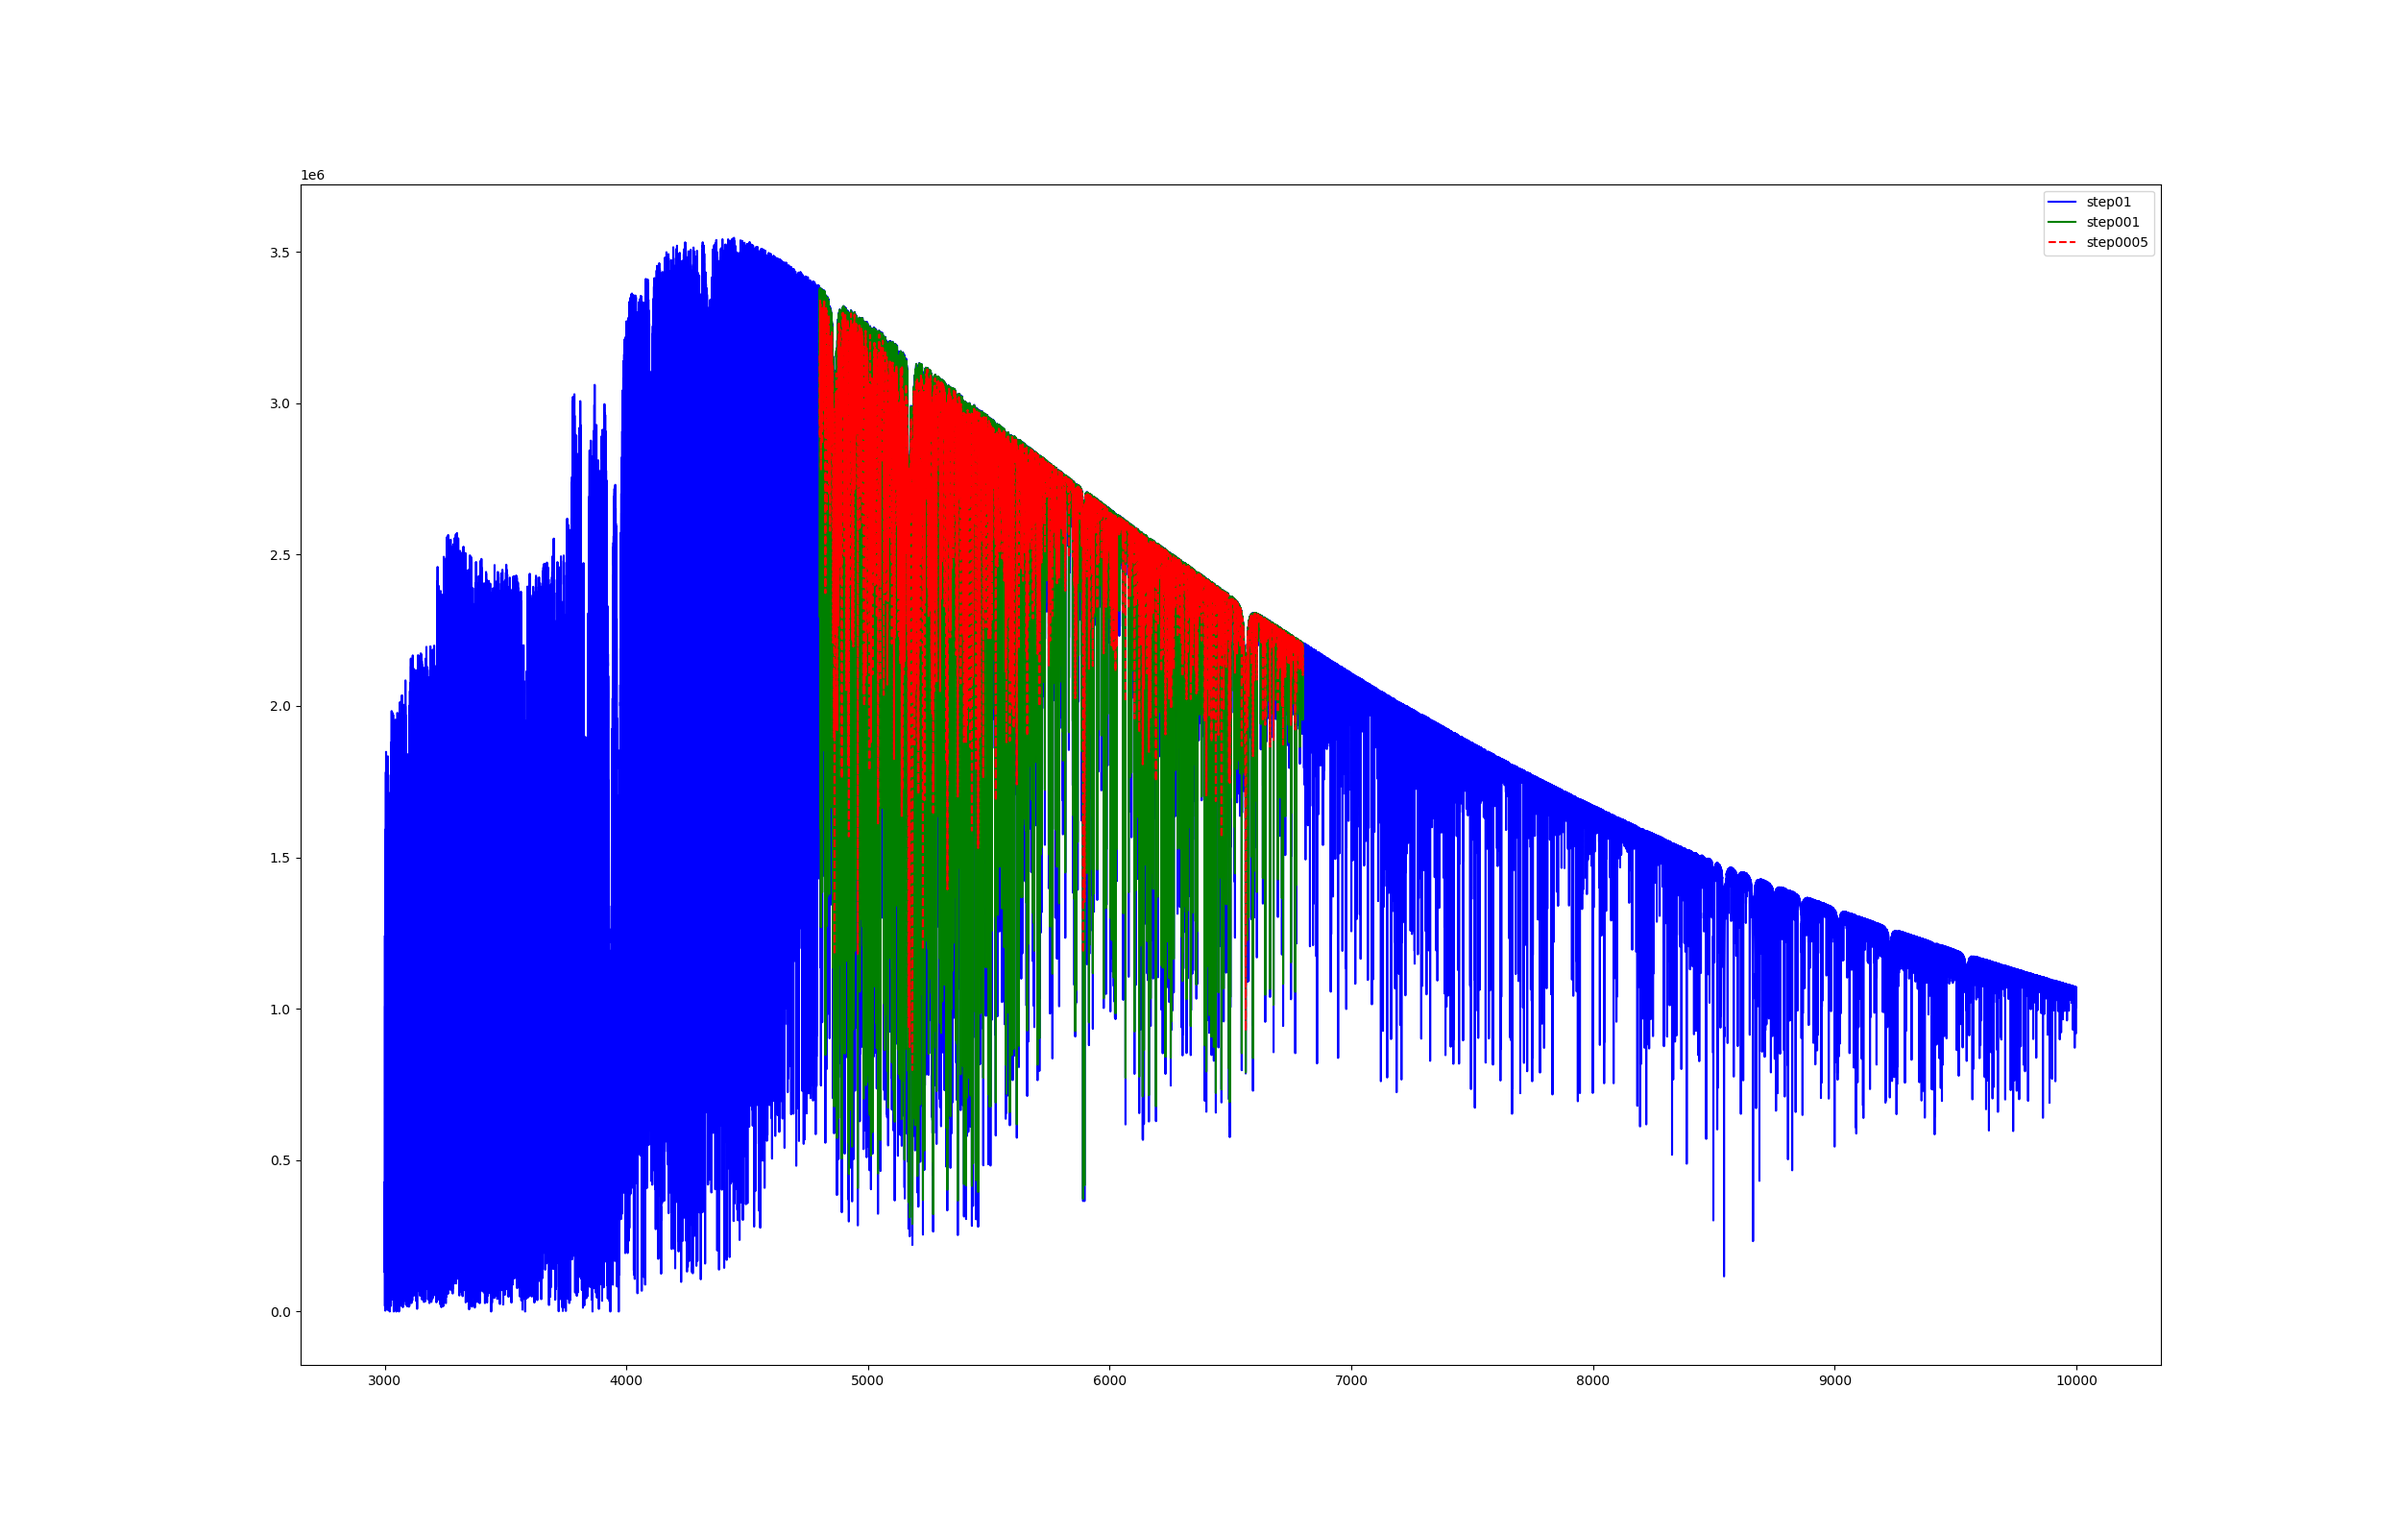
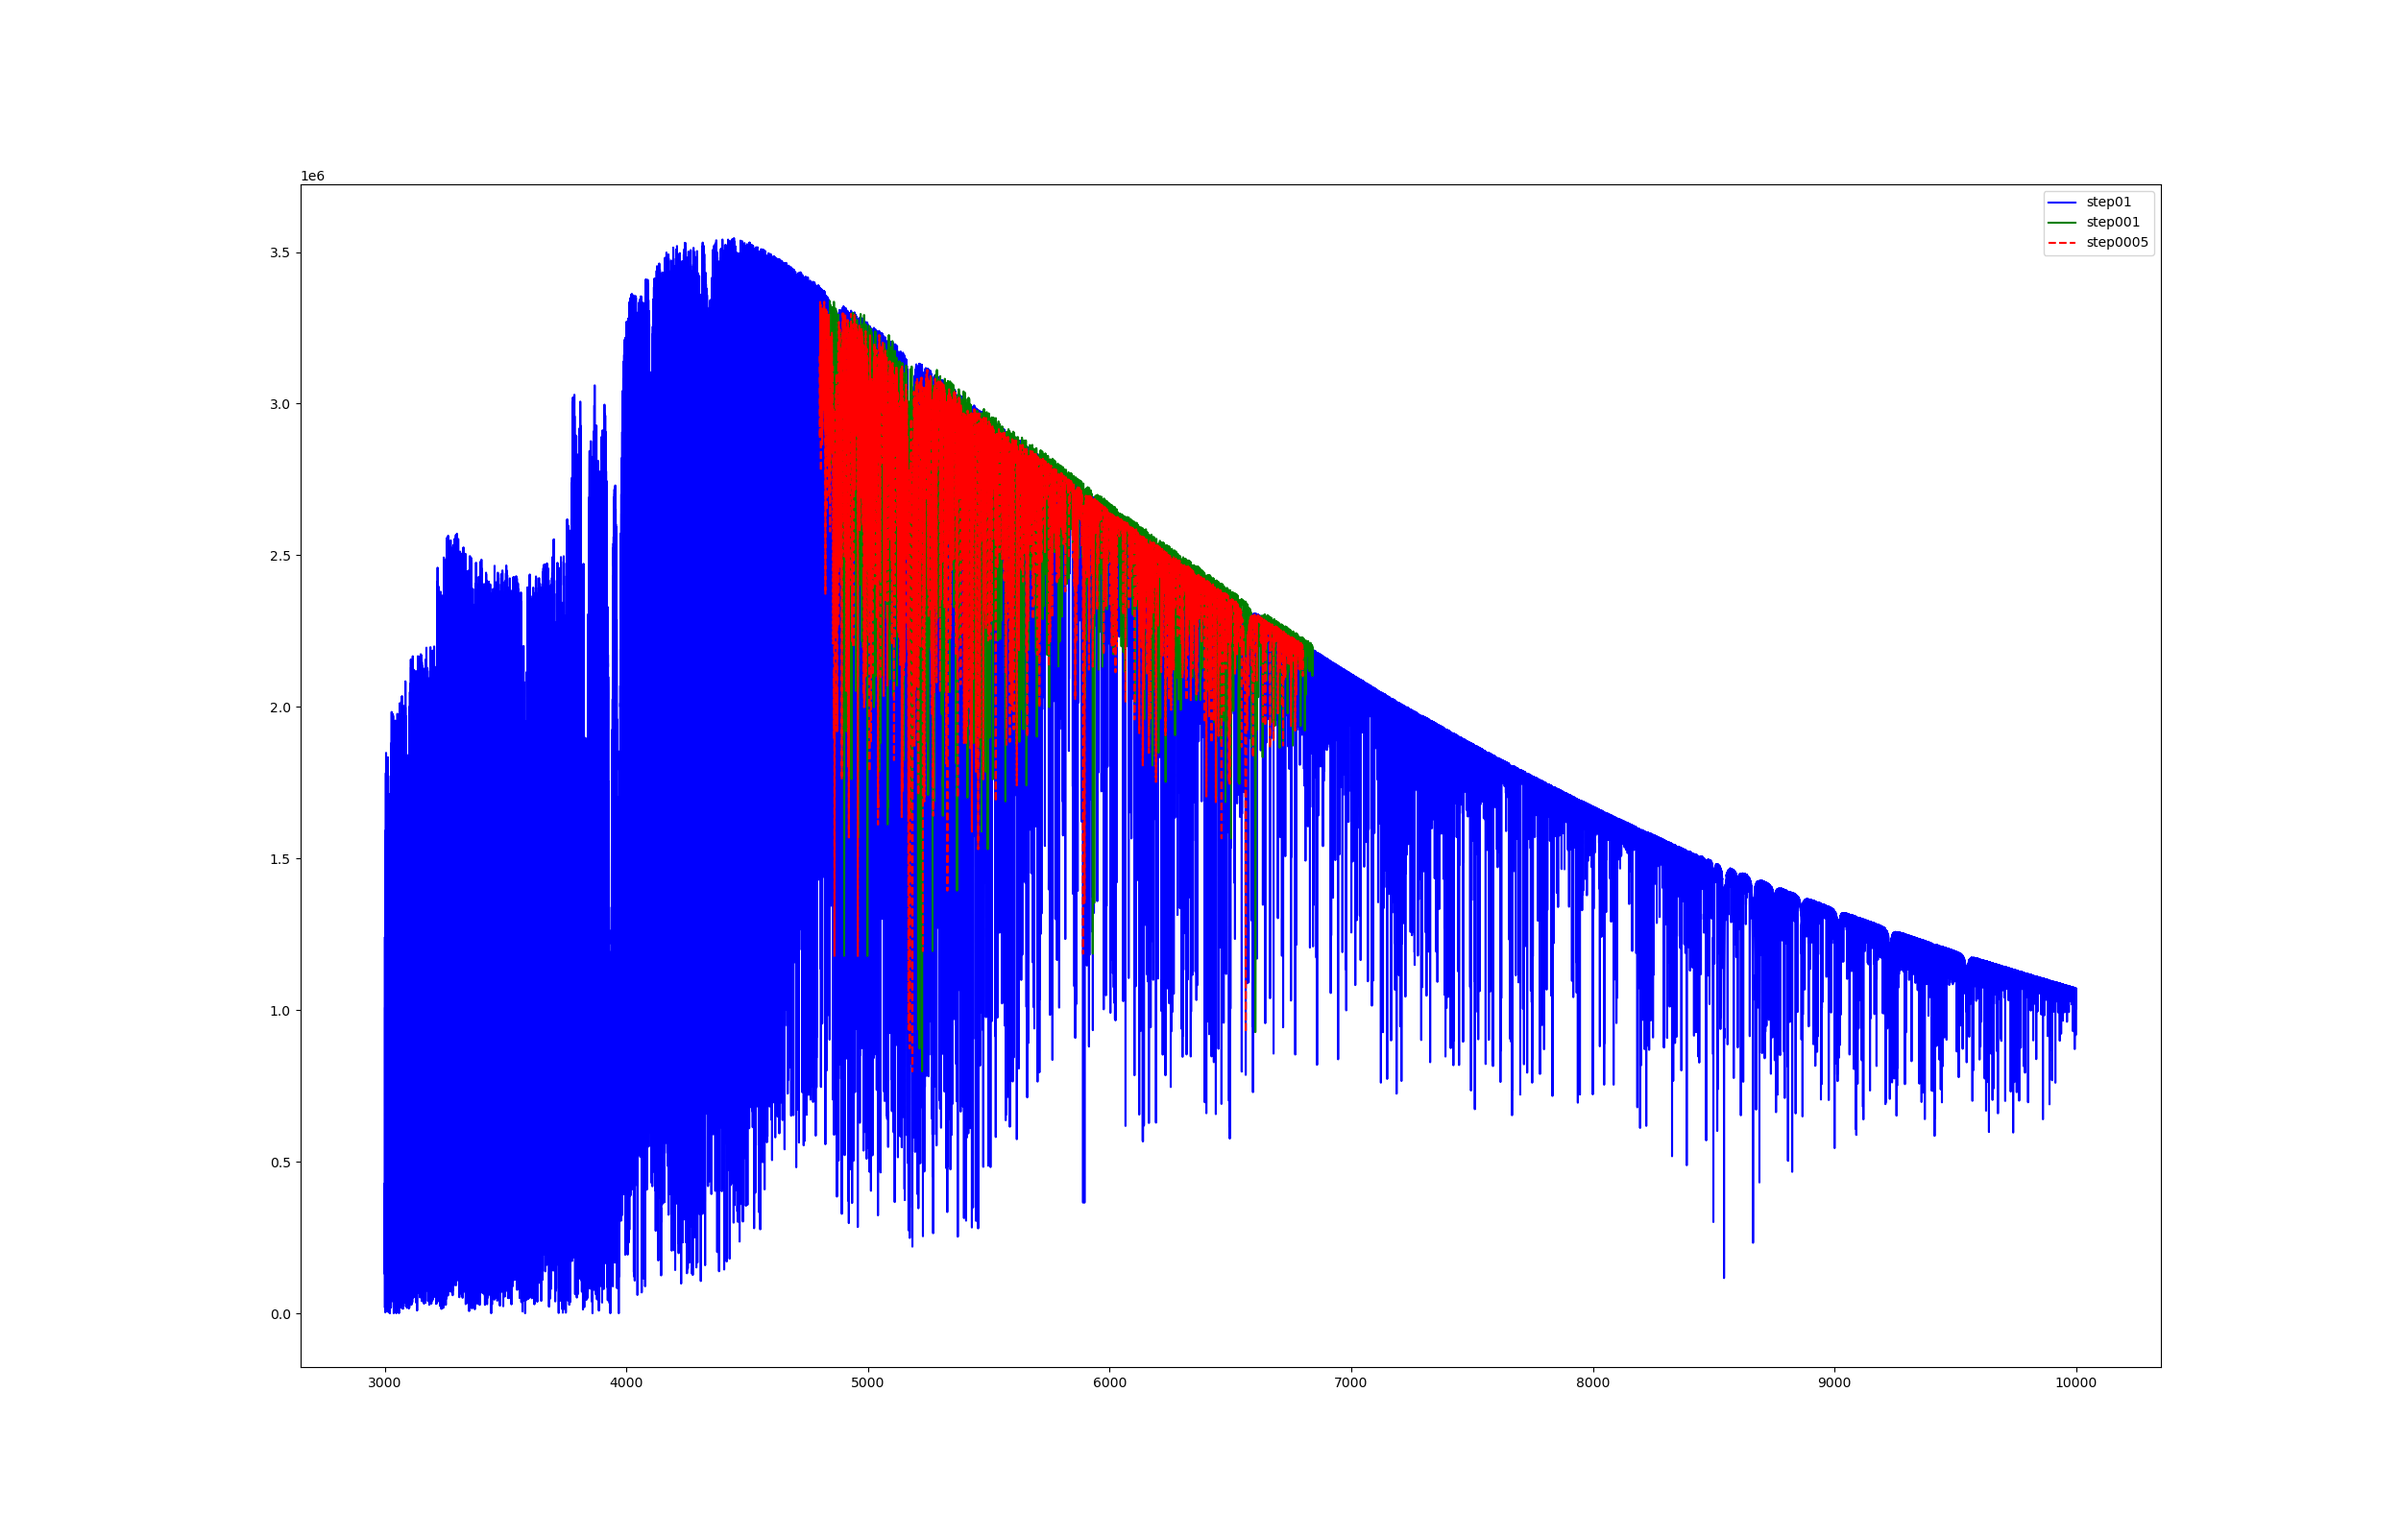
correct an error

diff --git a/docs/spectroscopy/spectra_process/1-degrade_resolution.md b/docs/spectroscopy/spectra_process/1-degrade_resolution.md
@@ -134,7 +134,7 @@ ascii.write([bereich['WAVE'], convoluted], name, overwrite=True,
 
 ### ③ 降至 LAMOST 光谱的低分辨率
 
-> 实验中用到的分辨率为 50,000 的光谱 [:green_book: 下载链接]()
+> 实验中用到的分辨率为 50,000 的光谱 [:green_book: 下载链接](https://gitee.com/iScottMark/Astro/tree/master/docs/spectroscopy/spectra_process/ap00t5777g44377k1odfnew_50000.spec)
 
 ```python
 import numpy as np
@@ -175,14 +175,15 @@ if __name__ == '__main__':
 
     # 分别对步长为 0.01 和 0.005 的流量降低分辨率
     flux_001_degrade = conv(origin_flux=flux_001, old_resolution=50000,
-                            new_resolution=7500, step=0.1)
+                            new_resolution=7500, step=0.01)
     flux_0005_degrade = conv(origin_flux=flux_0005, old_resolution=50000,
                              new_resolution=7500, step=0.005)
 
     # 画图
     plt.figure(figsize=(25, 16))
     plt.plot(wave_01, flux_01, 'b-', label='step01')
-    plt.plot(wave_001, flux_001_degrade, 'g-', label='step001')
+    # + 40 偏移，否则步长为 0.01 的绿线会被步长为 0.005 的红线完全覆盖，看不出来
+    plt.plot(wave_001 + 40, flux_001_degrade, 'g-', label='step001')
     plt.plot(wave_0005, flux_0005_degrade, 'r--', label='step0005', alpha=1.0)
     plt.legend()
     plt.show()
